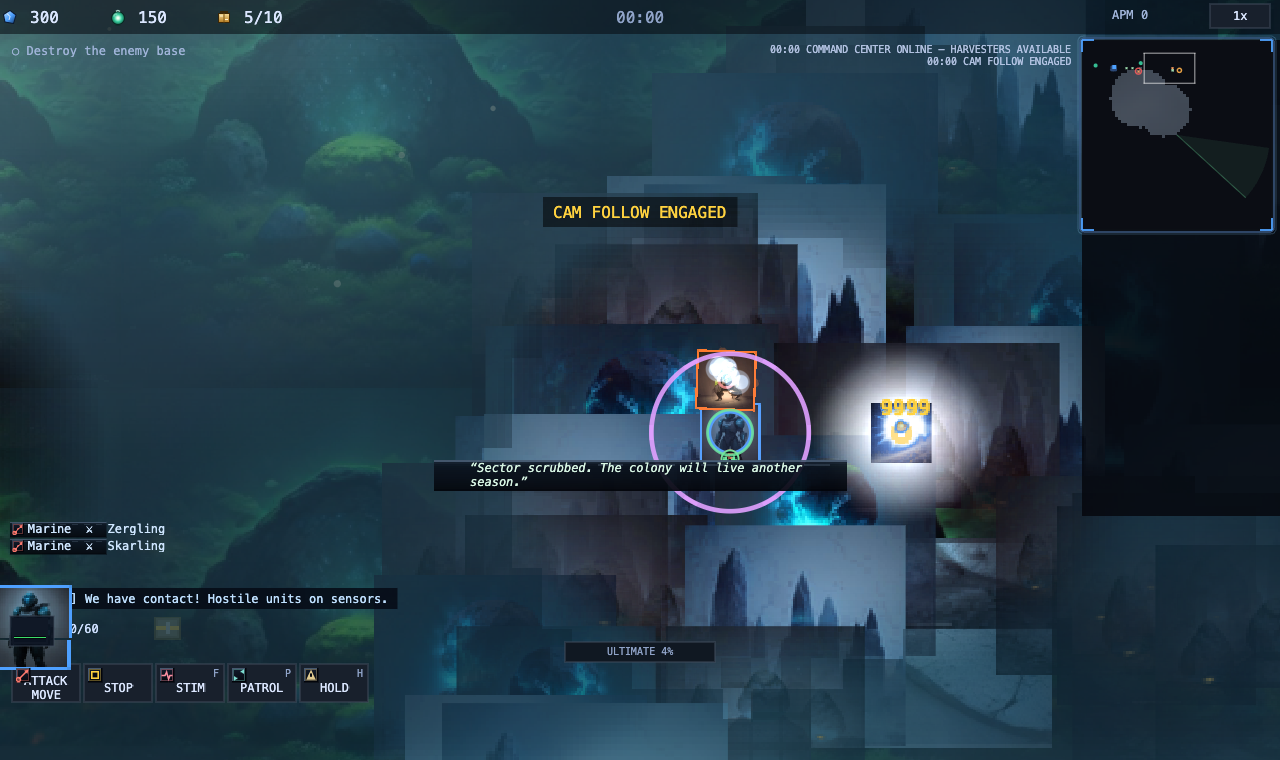
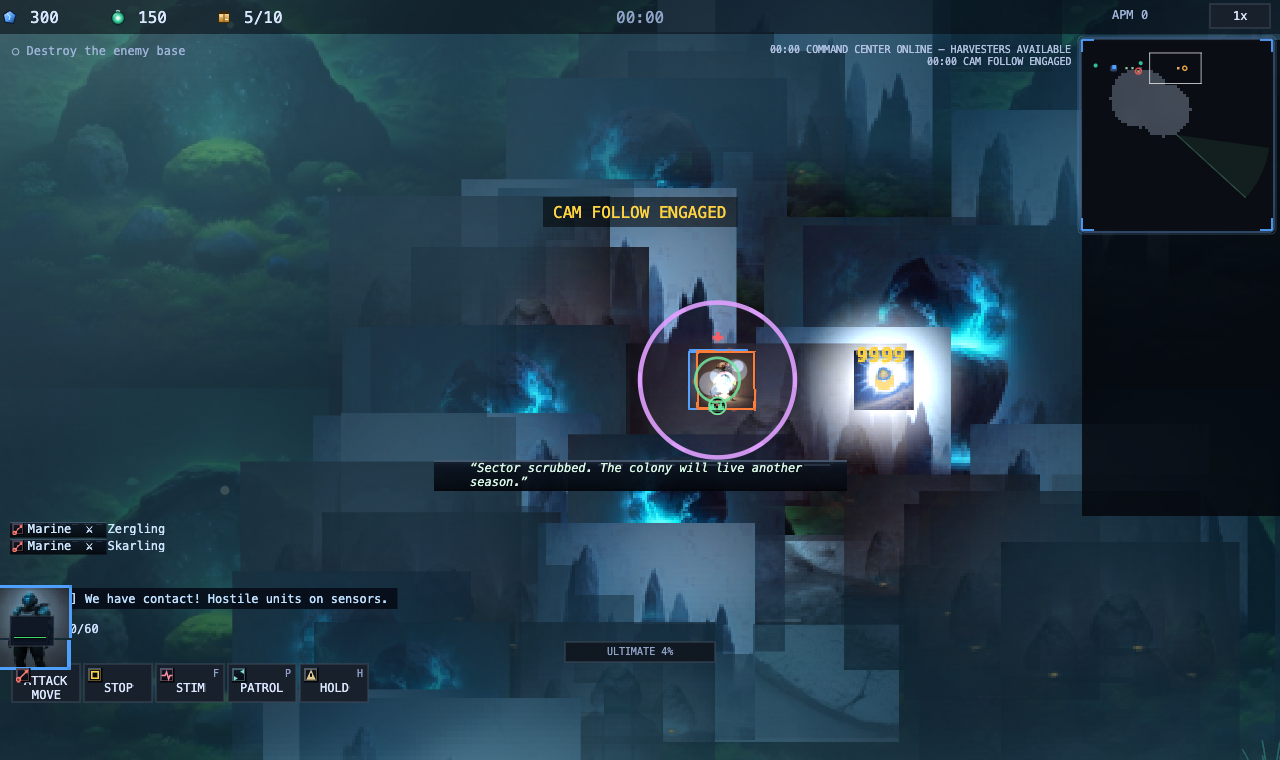
v2.54.0 construction rubble FX + minimap patrol routes: worker build site kicks up drifting tan dust puffs + rare chips (~0.4s throttle, matches weld sparks); minimap draws race-accent dashed patrol routes with endpoint dots, 4s expanding ping rings on route set, pulsing reticle while patrol anchor 

diff --git a/src2/scenes/HudScene.js b/src2/scenes/HudScene.js
@@ -1159,6 +1159,41 @@ export class HudScene extends Phaser.Scene {
         g.fillCircle(bx, by, 1.6);
       }
     }
+    // v2.54: patrol routes on minimap — race-accent dashed line + endpoint
+    // ping rings that pulse for 4s after route (re)assignment; armed anchor
+    // shows a pulsing reticle while setting the second point.
+    for (const u of b.units) {
+      if (u.dead || u.team !== 0 || !u.patrolPoints || u.order?.type !== 'patrol') continue;
+      const pa = u.patrolPoints[0], pb2 = u.patrolPoints[1];
+      if (!pa || !pb2) continue;
+      g.lineStyle(1, this.mmAcc, 0.55);
+      const ax = this.mmX + pa.x * s, ay = this.mmY + pa.y * s, bx2 = this.mmX + pb2.x * s, by2 = this.mmY + pb2.y * s;
+      const segs = 7;
+      for (let i = 0; i < segs; i += 2) {
+        const t0 = i / segs, t1 = Math.min(1, (i + 1) / segs);
+        g.lineBetween(ax + (bx2 - ax) * t0, ay + (by2 - ay) * t0, ax + (bx2 - ax) * t1, ay + (by2 - ay) * t1);
+      }
+      g.fillStyle(this.mmAcc, 0.8);
+      g.fillCircle(ax, ay, 1.4); g.fillCircle(bx2, by2, 1.4);
+    }
+    {
+      const pk = Math.max(0, 1 - (b.gameTime - (b._patrolPingAt || -99)) / 4);
+      if (pk > 0) {
+        const pts = b.units.filter(u => !u.dead && u.team === 0 && u.patrolPoints && u.order?.type === 'patrol');
+        const seen = new Set();
+        for (const u of pts) for (const pt of u.patrolPoints) {
+          const key = Math.round(pt.x) + ',' + Math.round(pt.y);
+          if (seen.has(key)) continue; seen.add(key);
+          g.lineStyle(1.5, this.mmAcc, pk * 0.9);
+          g.strokeCircle(this.mmX + pt.x * s, this.mmY + pt.y * s, 2 + (1 - pk) * 8);
+        }
+      }
+    }
+    if (b.patrolMode && b._patrolAnchor) {
+      const k = 0.5 + 0.45 * Math.sin(b.gameTime * 6);
+      g.lineStyle(1, this.mmAcc, k);
+      g.strokeCircle(this.mmX + b._patrolAnchor.x * s, this.mmY + b._patrolAnchor.y * s, 3);
+    }
     // GAP: minimap event pings (combat/contact/building loss) — expanding rings
     for (const p of (b._eventPings || [])) {
       const k = Math.max(0, 1 - (b.gameTime - p.t) / 4);

diff --git a/src2/engine/entity.js b/src2/engine/entity.js
@@ -723,6 +723,19 @@ export class Unit {
     }
     b.constructionProgress += dt;
     b.workers.push(this);
+    // v2.54: construction rubble + dust — grinding kicks up drifting puffs
+    // at the site, throttled ~0.4s; matches the existing weld sparks.
+    if (!this._dustFxT || this._dustFxT <= 0) {
+      this._dustFxT = 0.35 + Math.random() * 0.25;
+      const dx = b.x + (Math.random() * b.def.w * TILE * 0.9 - b.def.w * TILE * 0.45);
+      const dy = b.y + (Math.random() * b.def.h * TILE * 0.5 - b.def.h * TILE * 0.1);
+      const puff = this.world.add.circle(dx, dy, 2 + Math.random() * 2.5, 0xc8b890, 0.5).setDepth(24);
+      this.world.tweens.add({ targets: puff, y: dy - 12 - Math.random() * 8, x: dx + (Math.random() * 14 - 7), scale: 2.4, alpha: 0, duration: 700 + Math.random() * 400, ease: 'Sine.easeOut', onComplete: () => puff.destroy() });
+      if (Math.random() < 0.35) {
+        const chip = this.world.add.rectangle(dx, dy, 2, 2, 0x8a7a5c, 0.95).setDepth(24).setRotation(Math.random() * 6.28);
+        this.world.tweens.add({ targets: chip, y: dy - 6, x: dx + (Math.random() * 18 - 9), alpha: 0, scale: 0.4, duration: 520, ease: 'Quad.easeOut', onComplete: () => chip.destroy() });
+      }
+    } else this._dustFxT -= dt;
     // F5: construction sparks at the build site
     if (!this._sparkT || this._sparkT <= 0) {
       this._sparkT = 0.25 + Math.random() * 0.2;
@@ -914,6 +927,8 @@ export class Unit {
 
 export class Building {
   constructor(world, team, buildId, x, y, opts = {}) {
+    // harness hook: lets QA scripts construct Buildings without importing
+    if (typeof window !== 'undefined') window.__SCCBuilding = Building;
     this.world = world;
     this.id = nextId++;
     this.team = team;

diff --git a/src2/scenes/BattleScene.js b/src2/scenes/BattleScene.js
@@ -2364,8 +2364,8 @@ export class BattleScene extends Phaser.Scene {
       }
       if (this.hotseat && this.cam2) this.autoTeamByPointer(p);
       if (this.patrolMode) {
-        if (!this._patrolAnchor) { this._patrolAnchor = { x: wp.x, y: wp.y }; this.events.emit('hud:alert', 'PATROL: SET END POINT'); }
-        else { for (const u of this.selection) { u.patrolPoints = [this._patrolAnchor, { x: wp.x, y: wp.y }]; u._patrolIdx = 0; u.setOrder({ type: 'patrol' }); } this._patrolAnchor = null; this.patrolMode = false; this.input.setDefaultCursor('default'); this.audio?.move(); }
+        if (!this._patrolAnchor) { this._patrolAnchor = { x: wp.x, y: wp.y }; this.events.emit('hud:alert', 'PATROL: SET END POINT'); this._patrolPingAt = this.gameTime; }
+        else { for (const u of this.selection) { u.patrolPoints = [this._patrolAnchor, { x: wp.x, y: wp.y }]; u._patrolIdx = 0; u.setOrder({ type: 'patrol' }); } this._patrolAnchor = null; this.patrolMode = false; this.input.setDefaultCursor('default'); this.audio?.move(); this._patrolPingAt = this.gameTime; }
         return;
       }
       if (p.button === 2) return;
